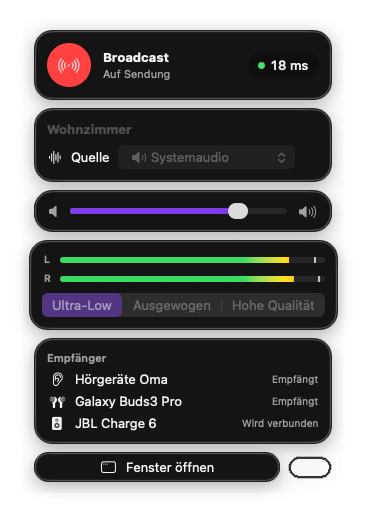
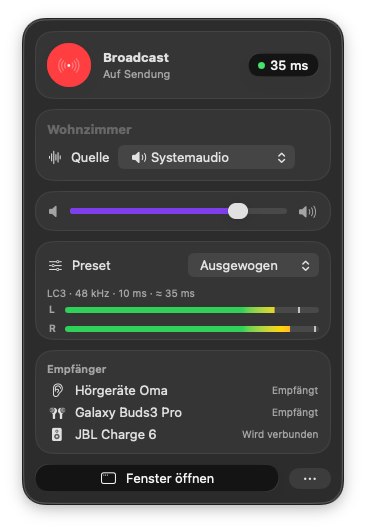
docs: v0.1.3 notes (menu bar), menu bar screenshots from CI

diff --git a/docs/releases/v0.1.3.md b/docs/releases/v0.1.3.md
@@ -7,6 +7,9 @@
 - **Diagnose im Log:** `Tap: Systemaudio als Prozess-Mix … N Prozess(e): Name[PID]▶ …` (▶ = spielt gerade, ● = nimmt auf) samt ausgeschlossener Prozesse und Grund, `Tap aktualisiert · neu: … · entfernt: …` und `Aufnahme: 1 Eingangs-Stream(s) im Aggregat · 1 Puffer pro IO-Zyklus`. Sollte das Echo bleiben, steht hier, welcher Prozess die zweite Kopie liefert.
 - **Ultra-Low β:** Presentation Delay **20 ms** statt 10 ms, **RTN 3** statt 2 und max. Transportlatenz 20 ms (der Controller kann so Vorab-Übertragungen/mehr Subevents nutzen statt NSE 3/PTO 0). Mac und Dongle lieferten schon 100 % – das Puffern lag beim Empfänger, dem 10 ms zu knapp waren. Geschätzte Latenz jetzt ≈ 28 ms (weiterhin das schnellste Preset); im Preset-Hinweis erklärt.
 
+**Menüleiste**
+- Popover repariert: Die Preset-Auswahl (vier Segmente) war breiter als das Fenster und links/rechts abgeschnitten, darüber lag eine leere, verzerrte Glasfläche. Jetzt: feste Breite 320 pt, Preset als kompaktes Auswahlmenü mit Codec und geschätzter Latenz, alle Bereiche in derselben Kartenoptik, Pegelanzeige nur während des Sendens, leere Bereiche ausgeblendet. CI-Screenshots hell/dunkel geprüft.
+
 **Engine**
 - Nach einem Engine-Wechsel startet der Dongle beim Schließen des Ports neu, der Port verschwindet kurz (`[Errno 2] No such file`). Der Helper wartet jetzt bis ~6 s darauf, dass der Port wieder erscheint, und verbindet dann (wie bisher auch bei `Resource busy`).
 
